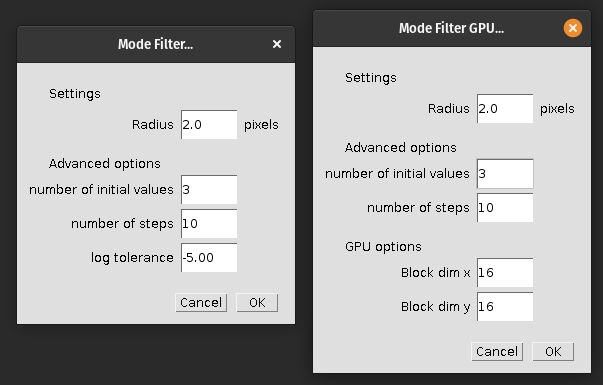
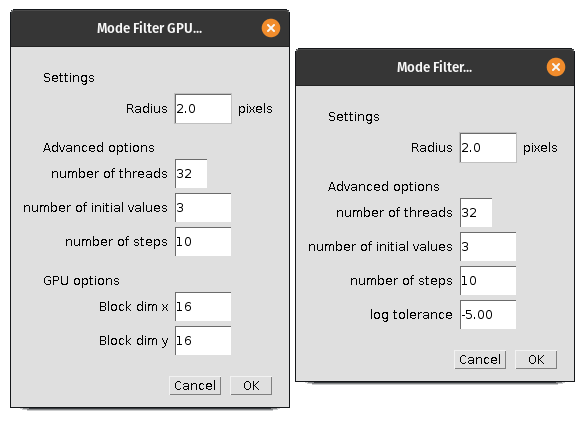
Add option for numThreads
Add option for numThreads in both CLI and GUI
Update README.md

diff --git a/src/uk/ac/warwick/sip/empiricalnullfilter/EmpiricalNullFilter.java b/src/uk/ac/warwick/sip/empiricalnullfilter/EmpiricalNullFilter.java
@@ -80,6 +80,8 @@ public class EmpiricalNullFilter implements ExtendedPlugInFilter, DialogListener
   /** values used in the previous filtering */
   private static double lastRadius = 0;
   /** values used in the previous filtering */
+  private static int lastNumThreads = Prefs.getThreads();
+  /** values used in the previous filtering */
   private static int lastNInitial = EmpiricalNull.N_INITIAL;
   /** values used in the previous filtering */
   private static int lastNStep = EmpiricalNull.N_STEP;
@@ -149,7 +151,7 @@ public class EmpiricalNullFilter implements ExtendedPlugInFilter, DialogListener
 
   // MULTITHREADING RELATED
   /** number of threads */
-  private int numThreads = Prefs.getThreads();
+  private int numThreads = lastNumThreads;
   /**
    * Current state of processing is in class variables. Thus, stack parallelization must be done
    * ONLY with one thread for the image
@@ -251,6 +253,7 @@ public class EmpiricalNullFilter implements ExtendedPlugInFilter, DialogListener
 
     if (Macro.getOptions() == null) { // interactive only: remember settings
       lastRadius = this.radius;
+      lastNumThreads = this.numThreads;
       lastNInitial = this.nInitial;
       lastNStep = this.nStep;
       lastLog10Tolerance = this.log10Tolerance;
@@ -269,6 +272,7 @@ public class EmpiricalNullFilter implements ExtendedPlugInFilter, DialogListener
     // add fields for the empirical null tuning parameters
     // integers do not show decimal points
     genericDialog.addMessage("Advanced options");
+    genericDialog.addNumericField("number of threads", this.getNumThreads(), 0, 3, null);
     genericDialog.addNumericField("number of initial values", this.getNInitial(), 0, 6, null);
     genericDialog.addNumericField("number of steps", this.getNStep(), 0, 6, null);
     genericDialog.addNumericField("log tolerance", this.getLog10Tolerance(), 2, 6, null);
@@ -310,6 +314,7 @@ public class EmpiricalNullFilter implements ExtendedPlugInFilter, DialogListener
 
   protected void changeValueFromDialog(GenericDialog genericDialog) throws InvalidValueException {
     try {
+      this.setNumThreads((int) genericDialog.getNextNumber());
       this.setNInitial((int) genericDialog.getNextNumber());
       this.setNStep((int) genericDialog.getNextNumber());
       this.setLog10Tolerance((float) genericDialog.getNextNumber());
@@ -756,7 +761,26 @@ public class EmpiricalNullFilter implements ExtendedPlugInFilter, DialogListener
     }
   }
 
-  // =====STATIC FUNCTIONS AND PROCEDURES=====
+  /**
+   * Set number of threads
+   * 
+   * @param numThreads must be 1 or bigger
+   * @throws InvalidValueException
+   */
+  public void setNumThreads(int numThreads) throws InvalidValueException {
+    if (numThreads > 0) {
+      this.numThreads = numThreads;
+    } else {
+      throw new InvalidValueException("number of threads must be positive");
+    }
+  }
+
+  /**
+   * @return number of threads to use
+   */
+  public int getNumThreads() {
+    return this.numThreads;
+  }
 
   /**
    * Set number of initial points

diff --git a/src/uk/ac/warwick/sip/empiricalnullfilter/EmpiricalNullFilterGpu.java b/src/uk/ac/warwick/sip/empiricalnullfilter/EmpiricalNullFilterGpu.java
@@ -6,9 +6,11 @@
  *
  * Runs the compiled CUDA code. The CUDA cude is compiled into a .ptx file which is then used by the
  * JCuda package. Tries to be as similar as the CPU version. Main difference is how the mode
- * soutions are shared. They are shared within block neighbours. Performance is affected by block
+ * solutions are shared. They are shared within block neighbours. Performance is affected by block
  * dimensions, 16x16 and 32x32 were found to be best from very from quick experimenting and
  * eyeballing. Tolerance for Newton-Raphson is disabled as this introduces branching in GPU code.
+ *
+ * Multiple CPU threads are used in std, median and quantile filtering
  */
 
 package uk.ac.warwick.sip.empiricalnullfilter;
@@ -66,6 +68,8 @@ public class EmpiricalNullFilterGpu extends EmpiricalNullFilter {
   @Override
   public void showOptionsInDialog(GenericDialog genericDialog) {
     genericDialog.addMessage("Advanced options");
+
+    genericDialog.addNumericField("number of threads", this.getNumThreads(), 0, 3, null);
     genericDialog.addNumericField("number of initial values", this.getNInitial(), 0, 6, null);
     genericDialog.addNumericField("number of steps", this.getNStep(), 0, 6, null);
     genericDialog.addMessage("GPU options");
@@ -79,6 +83,7 @@ public class EmpiricalNullFilterGpu extends EmpiricalNullFilter {
   @Override
   protected void changeValueFromDialog(GenericDialog genericDialog) throws InvalidValueException {
     try {
+      this.setNumThreads((int) genericDialog.getNextNumber());
       this.setNInitial((int) genericDialog.getNextNumber());
       this.setNStep((int) genericDialog.getNextNumber());
       this.setBlockDimX((int) genericDialog.getNextNumber());
@@ -151,6 +156,11 @@ public class EmpiricalNullFilterGpu extends EmpiricalNullFilter {
       rankFilters.imageProcessor = this.imageProcessor;
       rankFilters.roi = this.roi;
       rankFilters.setRadius(this.getRadius());
+      try {
+        rankFilters.setNumThreads(this.getNumThreads());
+      } catch (InvalidValueException exception) {
+        throw new RuntimeException(exception);
+      }
       rankFilters.filter();
 
       Rectangle roiRectangle = this.imageProcessor.getRoi();

diff --git a/src/Empirical_Null_Filter.java b/src/Empirical_Null_Filter.java
@@ -34,6 +34,7 @@ import uk.ac.warwick.sip.empiricalnullfilter.ModeFilterGpu;
  * <li>image file to run filter on</li>
  * <li>path to save filtered image to in .png format</li>
  * <li>[-r radius of the kernel]</li>
+ * <li>[-n number of threads]</li>
  * <li>[-i number of initial points for Newton-Raphson]</li>
  * <li>[-s number of steps for Newton-Raphson]</li>
  * <li>[-t stopping condition tolerance for Newton-Raphson (recommend negative number), only for
@@ -52,7 +53,7 @@ public class Empirical_Null_Filter extends EmpiricalNullFilter {
 
   public static void main(String[] args) throws Exception {
     System.out.println("MIT License - please see LICENSE");
-    System.out.println("Copyright (c) 2019-2023 Sherman Lo");
+    System.out.println("Copyright (c) 2019-2024 Sherman Lo");
     System.out.println("Please see https://github.com/shermanlo77/modefilter or README.md");
     System.out.println();
 
@@ -112,6 +113,11 @@ public class Empirical_Null_Filter extends EmpiricalNullFilter {
           float radius;
           radius = Float.parseFloat(args[argsIndex++]);
           filter.setRadius(radius);
+          break;
+        case "-n": // number of threads
+          int numThreads;
+          numThreads = Integer.parseInt(args[argsIndex++]);
+          filter.setNumThreads(numThreads);
           break;
         case "-i": // number of initial values
           int nInitial;
@@ -258,6 +264,7 @@ public class Empirical_Null_Filter extends EmpiricalNullFilter {
     System.out.println();
     System.out.println("Options:");
     System.out.println("-r    radius of kernel");
+    System.out.println("-n    number of threads");
     System.out.println("-i    number of initial points for Newton-Raphson");
     System.out.println("-s    number of steps for Newton-Raphson");
     System.out.println(

diff --git a/README.md b/README.md
@@ -9,9 +9,11 @@ density. This may have applications in image processing such as image
 segmentation. The filters were also implemented on an *Nvidia* GPU using *CUDA*
 and *JCuda*. This speeds up the filtering by a huge margin.
 
-Where appropriate, please cite the thesis Lo, S.E. (2020). *Characterisation of
-Computed Tomography Noise in Projection Space with Applications to Additive
-Manufacturing*. PhD thesis, University of Warwick, Department of Statistics.
+Where appropriate, please cite the thesis
+
+* Lo, S.E. (2020). *Characterisation of Computed Tomography Noise in Projection
+  Space with Applications to Additive Manufacturing*. PhD thesis, University of
+  Warwick, Department of Statistics.
 
 ![images of a Mandrill with a mode filter, of varying radius kernel,
 applied](mandrillExample.jpg)
@@ -96,6 +98,12 @@ They are:
 
 ![Screenshot of the GUI](filter_gui.png)
 
+* Number of (CPU) threads
+  * Number of CPU threads to use when doing mean, median and quantile filtering.
+    Currently, they are only implemented on the CPU. These are used as inputs
+    for mode filtering. Thus there will be some CPU computation even in the
+    GPU version of the mode filter. It will default to use all detectable
+    threads.
 * Number of initial values
   * Number of initial values for the Newton-Raphson method. Increase this for
     more accurate filtering at a price of more computational time. Compared to
@@ -138,6 +146,7 @@ java -jar Empirical_Null_Filter-x.x.x.jar run ['cpu' or 'gpu'] \
 where the options are
 
 * `-r` radius of kernel
+* `-n` number of CPU threads
 * `-i` number of initial points for Newton-Raphson
 * `-s` number of steps for Newton-Raphson
 * `-t` stopping condition tolerance for Newton-Raphson (recommend negative
